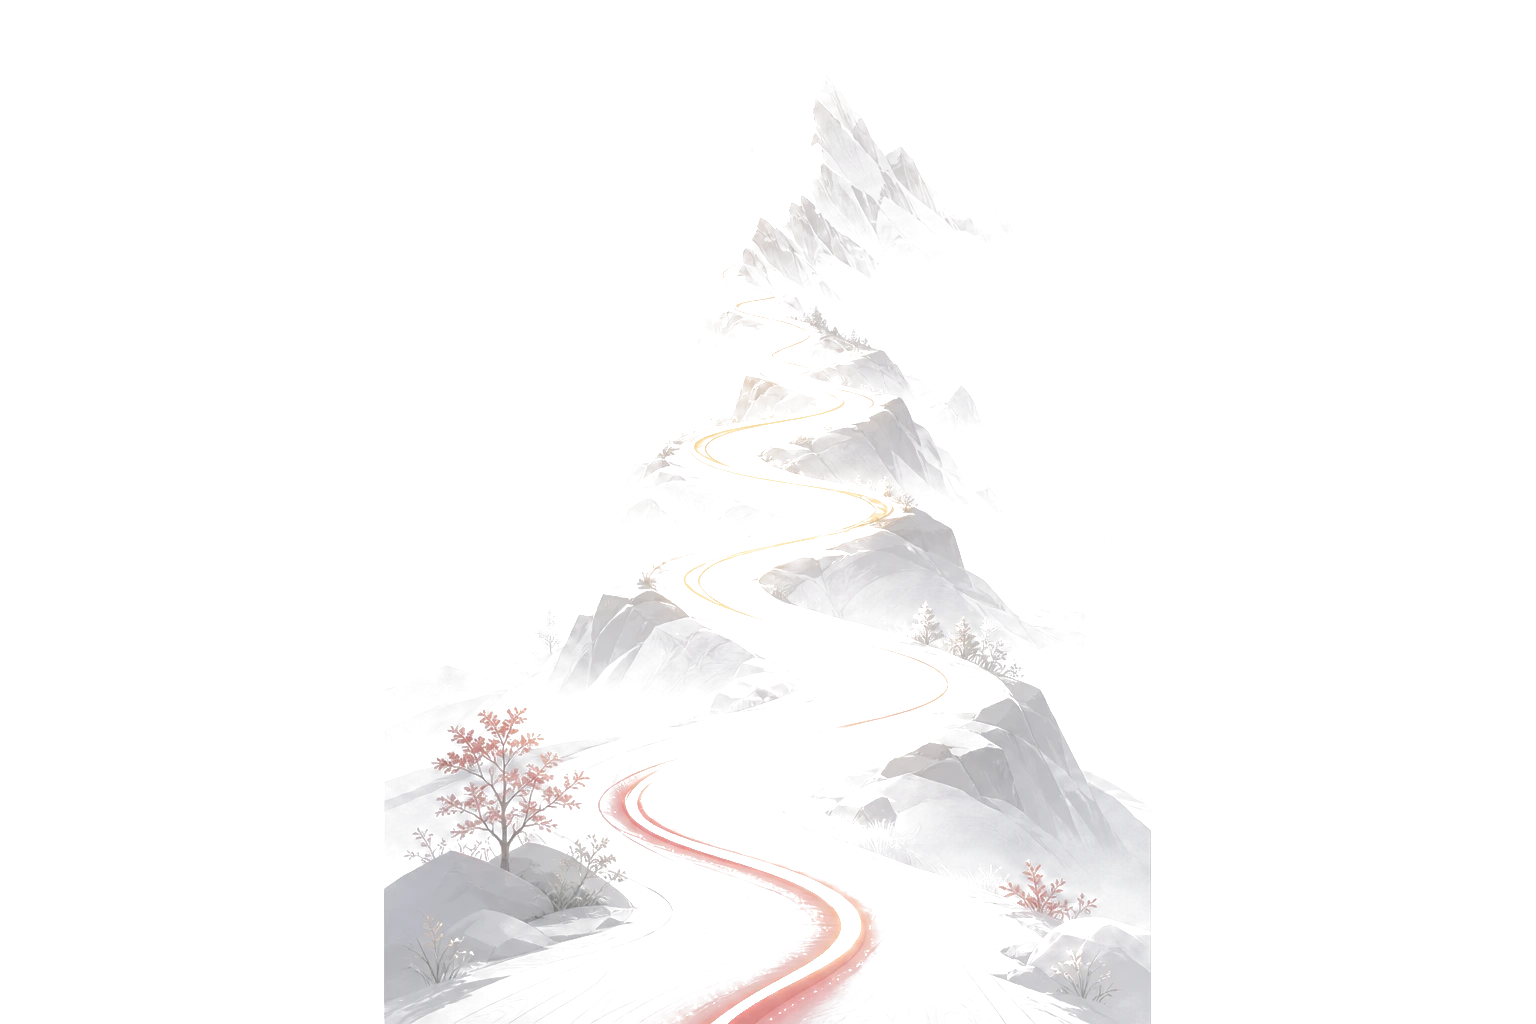
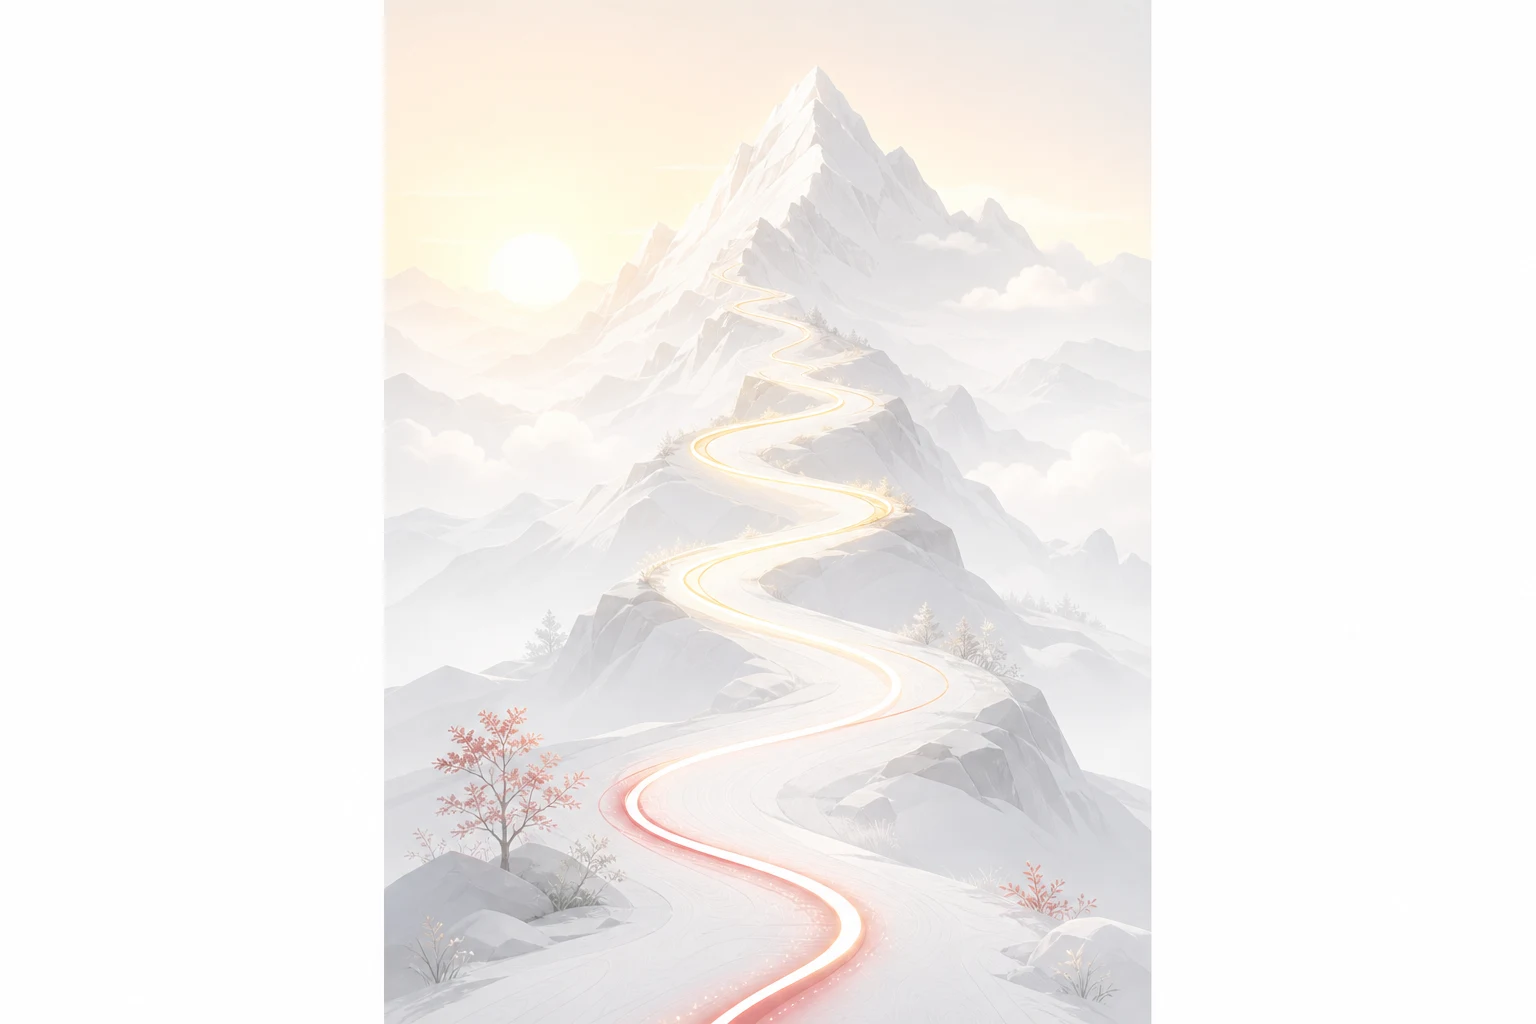
Use full illustrated trail map artwork with theme-aware dark and light backgrounds.

diff --git a/features/learning/components/trail/trail-map.tsx b/features/learning/components/trail/trail-map.tsx
@@ -1,18 +1,17 @@
 "use client";
 
-import Image from "next/image";
 import Link from "next/link";
 import { useTheme } from "next-themes";
 import { Check, Lock, Mountain, Play } from "lucide-react";
 
+import { TrailMapArtwork } from "@/components/media/trail-map-artwork";
 import { MotionDiv } from "@/components/motion/motion-div";
 import { YamaPresence } from "@/features/yama/components/yama-presence";
 import { yamaService } from "@/features/yama/services/yama.service";
 import {
-  TRAIL_SPINE_FRAME_CLASS,
-  TRAIL_SPINE_IMAGE_CLASS,
-} from "@/lib/assets/image-presentation";
-import { getTrailSpinePath } from "@/lib/assets/registry";
+  getTrailNodePositions,
+  trailMapMinHeightRem,
+} from "@/lib/design-system/trail-path-anchors";
 import { trailNodeReveal } from "@/lib/motion/presets";
 import { cn } from "@/lib/utils";
 import type { TrailNodeState, TrailNodeViewModel } from "@/features/learning/utils/trail-state";
@@ -22,23 +21,23 @@ const MARKER_STYLES: Record<
   { ring: string; fill: string; icon: typeof Check }
 > = {
   completed: {
-    ring: "border-success bg-success/15 text-success",
+    ring: "border-success bg-success/20 text-success shadow-[0_0_12px_rgba(47,191,113,0.35)]",
     fill: "bg-success text-success-foreground",
     icon: Check,
   },
   in_progress: {
-    ring: "border-primary bg-primary/15 text-primary shadow-elevation-1",
+    ring: "border-primary bg-primary/20 text-primary shadow-[0_0_14px_rgba(214,64,69,0.45)]",
     fill: "bg-primary text-primary-foreground",
     icon: Play,
   },
   available: {
-    ring: "border-primary/50 bg-card/90 text-primary",
-    fill: "bg-primary/85 text-primary-foreground",
+    ring: "border-primary/70 bg-card/90 text-primary shadow-elevation-1",
+    fill: "bg-primary/90 text-primary-foreground",
     icon: Mountain,
   },
   locked: {
-    ring: "border-border bg-muted/50 text-muted-foreground",
-    fill: "bg-muted-foreground/50 text-background",
+    ring: "border-border/80 bg-background/70 text-muted-foreground",
+    fill: "bg-muted-foreground/60 text-background",
     icon: Lock,
   },
 };
@@ -52,89 +51,89 @@ const STATE_LABELS: Record<TrailNodeState, string> = {
 
 function TrailPathNode({
   node,
-  side,
+  position,
   compact,
 }: {
   node: TrailNodeViewModel;
-  side: "left" | "right";
+  position: { x: number; y: number };
   compact?: boolean;
 }) {
   const styles = MARKER_STYLES[node.state];
   const Icon = styles.icon;
+  const labelSide = position.x < 48 ? "right" : "left";
   const ariaLabel = `${STATE_LABELS[node.state]}: ${node.label}${
     node.subtitle ? `, ${node.subtitle}` : ""
   }`;
 
-  const card = (
-    <div
-      className={cn(
-        "max-w-[calc(50%-1.75rem)] rounded-xl border bg-card/90 p-2.5 backdrop-blur-sm transition-colors",
-        styles.ring,
-        node.href ? "hover:bg-accent/30" : "cursor-not-allowed opacity-70",
-        compact && "p-2",
-      )}
-    >
-      <p className={cn("truncate font-medium", compact ? "text-caption" : "text-body-sm")}>
-        {node.label}
-      </p>
-      {node.subtitle ? (
-        <p className="truncate text-caption text-muted-foreground">{node.subtitle}</p>
-      ) : null}
-    </div>
-  );
-
   const marker = (
     <div
       className={cn(
-        "relative z-10 flex h-9 w-9 shrink-0 items-center justify-center rounded-full border-2",
+        "relative z-10 flex shrink-0 items-center justify-center rounded-full border-2 backdrop-blur-sm",
+        compact ? "h-8 w-8" : "h-9 w-9",
         styles.ring,
       )}
     >
       <div
         className={cn(
-          "flex h-6 w-6 items-center justify-center rounded-full",
+          "flex items-center justify-center rounded-full",
+          compact ? "h-5 w-5" : "h-6 w-6",
           styles.fill,
         )}
       >
-        <Icon className="h-3.5 w-3.5" aria-hidden />
+        <Icon className={compact ? "h-3 w-3" : "h-3.5 w-3.5"} aria-hidden />
       </div>
     </div>
   );
 
-  const row = (
+  const card = (
     <div
       className={cn(
-        "relative flex min-h-[3.25rem] items-center",
-        side === "left" ? "justify-start" : "justify-end",
+        "max-w-[7.5rem] rounded-lg border bg-card/92 p-2 shadow-elevation-1 backdrop-blur-md transition-colors sm:max-w-[9rem]",
+        styles.ring,
+        node.href ? "hover:bg-accent/35" : "cursor-not-allowed opacity-75",
+        compact && "max-w-[6.5rem] p-1.5",
       )}
     >
-      {side === "left" ? (
-        <>
-          {card}
-          <div className="w-4 shrink-0" />
-          {marker}
-        </>
-      ) : (
-        <>
-          {marker}
-          <div className="w-4 shrink-0" />
-          {card}
-        </>
+      <p
+        className={cn(
+          "line-clamp-2 font-medium leading-tight",
+          compact ? "text-[0.65rem]" : "text-caption",
+        )}
+      >
+        {node.label}
+      </p>
+      {!compact && node.subtitle ? (
+        <p className="mt-0.5 truncate text-[0.65rem] text-muted-foreground">
+          {node.subtitle}
+        </p>
+      ) : null}
+    </div>
+  );
+
+  const content = (
+    <div
+      className={cn(
+        "absolute flex -translate-y-1/2 items-center gap-1.5",
+        labelSide === "right" ? "flex-row" : "flex-row-reverse",
       )}
+      style={{
+        left: `${position.x}%`,
+        top: `${position.y}%`,
+        transform: `translate(${labelSide === "right" ? "-12%" : "-88%"}, -50%)`,
+      }}
+    >
+      {marker}
+      {card}
     </div>
   );
 
   if (!node.href) {
-    return (
-      <div aria-label={ariaLabel} className="relative">
-        {row}
-      </div>
-    );
+    return <div aria-label={ariaLabel}>{content}</div>;
   }
 
   return (
-    <Link href={node.href} className="relative block" aria-label={ariaLabel}>
-      {row}
+    <Link href={node.href} className="block" aria-label={ariaLabel}>
+      {content}
     </Link>
   );
 }
@@ -161,7 +160,8 @@ export function TrailMap({ nodes, compact = false, title, description }: TrailMa
   }
 
   const activeNode = nodes.find((node) => node.state === "in_progress");
-  const spineSrc = getTrailSpinePath(resolvedTheme);
+  const positions = getTrailNodePositions(nodes.length);
+  const minHeight = trailMapMinHeightRem(nodes.length, compact);
 
   return (
     <div className="space-y-3">
@@ -179,31 +179,28 @@ export function TrailMap({ nodes, compact = false, title, description }: TrailMa
           size="sm"
         />
       ) : null}
-      <div className="relative overflow-hidden rounded-2xl border border-primary/15 bg-card/50 py-4 shadow-elevation-1 dark:shadow-elevation-2">
-        <div className={TRAIL_SPINE_FRAME_CLASS} aria-hidden>
-          <Image
-            src={spineSrc}
-            alt=""
-            fill
-            className={TRAIL_SPINE_IMAGE_CLASS}
-            sizes="160px"
-          />
-        </div>
+      <div
+        className="relative overflow-hidden rounded-2xl border border-primary/20 shadow-elevation-1 dark:shadow-elevation-2"
+        style={{ minHeight: `${minHeight}rem` }}
+      >
+        <TrailMapArtwork theme={resolvedTheme} />
         <div
-          className="pointer-events-none absolute inset-y-4 left-1/2 w-0.5 -translate-x-1/2 bg-gradient-to-b from-primary/10 via-primary/40 to-primary/10"
-          aria-hidden
-        />
-        <div className="relative space-y-1 px-2" role="list" aria-label="Trail lessons">
+          className="relative px-1 py-3 sm:px-2"
+          role="list"
+          aria-label="Trail lessons"
+          style={{ minHeight: `${minHeight}rem` }}
+        >
           {nodes.map((node, index) => (
             <MotionDiv
               key={node.id}
               role="listitem"
+              className="pointer-events-auto"
               {...trailNodeReveal}
               transition={{ delay: index * 0.04 }}
             >
               <TrailPathNode
                 node={node}
-                side={index % 2 === 0 ? "left" : "right"}
+                position={positions[index]}
                 compact={compact}
               />
             </MotionDiv>

diff --git a/lib/design-system/trail-path-anchors.ts b/lib/design-system/trail-path-anchors.ts
@@ -1,0 +1,46 @@
+/**
+ * Percentage positions along the illustrated trail map artwork.
+ * Coordinates match the winding path in ui_trail_spine_{dark,light}_v1.
+ */
+export const TRAIL_MAP_PATH_ANCHORS: ReadonlyArray<{ x: number; y: number }> = [
+  { x: 50, y: 90 },
+  { x: 36, y: 78 },
+  { x: 64, y: 66 },
+  { x: 38, y: 54 },
+  { x: 62, y: 42 },
+  { x: 40, y: 30 },
+  { x: 52, y: 18 },
+];
+
+export function getTrailNodePositions(
+  nodeCount: number,
+): ReadonlyArray<{ x: number; y: number }> {
+  if (nodeCount <= 0) return [];
+  if (nodeCount === 1) return [{ x: 50, y: 50 }];
+
+  const anchors = TRAIL_MAP_PATH_ANCHORS;
+  const positions: Array<{ x: number; y: number }> = [];
+
+  for (let i = 0; i < nodeCount; i += 1) {
+    const t = i / (nodeCount - 1);
+    const anchorIndex = t * (anchors.length - 1);
+    const lower = Math.floor(anchorIndex);
+    const upper = Math.min(lower + 1, anchors.length - 1);
+    const frac = anchorIndex - lower;
+    const a = anchors[lower];
+    const b = anchors[upper];
+    positions.push({
+      x: a.x + (b.x - a.x) * frac,
+      y: a.y + (b.y - a.y) * frac,
+    });
+  }
+
+  return positions;
+}
+
+export function trailMapMinHeightRem(nodeCount: number, compact: boolean): number {
+  const perNode = compact ? 2.25 : 2.75;
+  const floor = compact ? 11 : 16;
+  const ceiling = compact ? 18 : 32;
+  return Math.min(ceiling, Math.max(floor, 4 + nodeCount * perNode));
+}

diff --git a/components/media/trail-map-artwork.tsx b/components/media/trail-map-artwork.tsx
@@ -1,0 +1,38 @@
+"use client";
+
+import Image from "next/image";
+
+import {
+  TRAIL_MAP_IMAGE_CLASS,
+  TRAIL_MAP_SCRIM_CLASS,
+} from "@/lib/assets/image-presentation";
+import { getTrailMapArtPath } from "@/lib/assets/registry";
+import { cn } from "@/lib/utils";
+
+type TrailMapArtworkProps = {
+  theme: string | undefined;
+  className?: string;
+  priority?: boolean;
+};
+
+export function TrailMapArtwork({
+  theme,
+  className,
+  priority = false,
+}: TrailMapArtworkProps) {
+  const src = getTrailMapArtPath(theme);
+
+  return (
+    <div className={cn("pointer-events-none absolute inset-0", className)} aria-hidden>
+      <Image
+        src={src}
+        alt=""
+        fill
+        className={TRAIL_MAP_IMAGE_CLASS}
+        sizes="(max-width: 512px) 100vw, 512px"
+        priority={priority}
+      />
+      <div className={TRAIL_MAP_SCRIM_CLASS} />
+    </div>
+  );
+}

diff --git a/lib/assets/image-presentation.ts b/lib/assets/image-presentation.ts
@@ -11,8 +11,10 @@ export function stickerImageClass(className?: string) {
 export const REGION_HERO_IMAGE_CLASS =
   "object-cover object-[center_42%] scale-105";
 
-/** Vertical trail spine art — transparent PNG centered in frame. */
-export const TRAIL_SPINE_FRAME_CLASS =
-  "pointer-events-none absolute inset-y-0 left-1/2 w-[38%] min-w-[7rem] max-w-[12rem] -translate-x-1/2 overflow-hidden opacity-40";
+/** Full illustrated trail map scene — dark/light artwork fills the frame. */
+export const TRAIL_MAP_IMAGE_CLASS =
+  "object-cover object-[center_38%]";
 
-export const TRAIL_SPINE_IMAGE_CLASS = "object-contain object-center";
+/** Keeps lesson labels readable over bright/dark trail art. */
+export const TRAIL_MAP_SCRIM_CLASS =
+  "absolute inset-0 bg-gradient-to-b from-background/25 via-background/5 to-background/45";

diff --git a/lib/assets/registry.ts b/lib/assets/registry.ts
@@ -117,10 +117,15 @@ export function getRegionArtPath(slug: string) {
   return REGION_SLUG_TO_ASSET[slug] ?? null;
 }
 
-export function getTrailSpinePath(theme: "light" | "dark" | string | undefined) {
+export function getTrailMapArtPath(theme: "light" | "dark" | string | undefined) {
   return theme === "light"
     ? ASSET_REGISTRY.ui.trailSpineLight
     : ASSET_REGISTRY.ui.trailSpineDark;
+}
+
+/** @deprecated Use getTrailMapArtPath */
+export function getTrailSpinePath(theme: "light" | "dark" | string | undefined) {
+  return getTrailMapArtPath(theme);
 }
 
 export function getWordmarkPath(theme: "light" | "dark" | string | undefined) {
